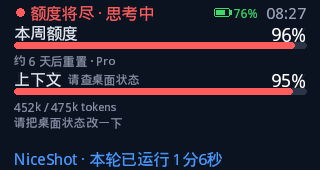
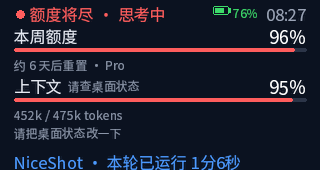
Keep the progress bars clear of the label glyphs.
The 20px UI face was running into the 6px tracks. Both bars are now 4px
and start 24px below the label so the window title and summary stay readable.

Changed region(s): [[0.0312, 0.0294, 0.9688, 0.8235], [0.0312, 0.8824, 0.75, 1.0]]

diff --git a/firmware/scripts/preview_ui.py b/firmware/scripts/preview_ui.py
@@ -13,10 +13,10 @@ import gen_font
 
 W, H = 320, 170
 PAD, RIGHT = 14, 306
-STATUS_Y, DOT = 4, (20, 12)
-LABEL1_Y, BAR1_Y, BAR_H, SUB1_Y = 24, 42, 6, 54
-LABEL2_Y, BAR2_Y, SUB2_Y = 70, 88, 100
-SUMMARY_Y = 116
+STATUS_Y, DOT = 2, (20, 14)
+LABEL1_Y, BAR1_Y, BAR_H, SUB1_Y = 24, 48, 4, 56
+LABEL2_Y, BAR2_Y, SUB2_Y = 74, 98, 106
+SUMMARY_Y = 124
 FOOT_Y = 150
 
 BG = (11, 18, 32)
@@ -157,10 +157,10 @@ def render(face_ui, face_sub, face_num, state):
     pct = "--" if state["weekly"] < 0 else f"{int(state['weekly'] + 0.5)}%"
     num_y = LABEL1_Y + (face_ui.line_height - face_num.line_height) // 2
     draw_text(image, face_num, RIGHT - face_num.width(pct), num_y, pct, WHITE, W)
-    rounded(draw, (PAD, BAR1_Y, RIGHT, BAR1_Y + BAR_H), BAR_H // 2, TRACK)
+    rounded(draw, (PAD, BAR1_Y, RIGHT, BAR1_Y + BAR_H - 1), BAR_H // 2, TRACK)
     if state["weekly"] > 0:
         fill = int((RIGHT - PAD) * min(state["weekly"], 100) / 100 + 0.5)
-        rounded(draw, (PAD, BAR1_Y, PAD + max(fill, 2), BAR1_Y + BAR_H), BAR_H // 2, bar_color(state["weekly"]))
+        rounded(draw, (PAD, BAR1_Y, PAD + max(fill, 2), BAR1_Y + BAR_H - 1), BAR_H // 2, bar_color(state["weekly"]))
     draw_text(image, face_sub, PAD, SUB1_Y, state["weekly_sub"], DIM, RIGHT)
     draw_text(image, face_ui, PAD, LABEL2_Y, "上下文", TEXT, W)
     pct = "--" if state["context"] < 0 else f"{int(state['context'] + 0.5)}%"
@@ -170,10 +170,10 @@ def render(face_ui, face_sub, face_num, state):
         name_x = PAD + face_ui.width("上下文") + 6
         draw_text(image, face_sub, name_x, LABEL2_Y + 3, window_name, DIM, pct_x - 6)
     draw_text(image, face_num, RIGHT - face_num.width(pct), LABEL2_Y + (face_ui.line_height - face_num.line_height) // 2, pct, WHITE, W)
-    rounded(draw, (PAD, BAR2_Y, RIGHT, BAR2_Y + BAR_H), BAR_H // 2, TRACK)
+    rounded(draw, (PAD, BAR2_Y, RIGHT, BAR2_Y + BAR_H - 1), BAR_H // 2, TRACK)
     if state["context"] > 0:
         fill = int((RIGHT - PAD) * min(state["context"], 100) / 100 + 0.5)
-        rounded(draw, (PAD, BAR2_Y, PAD + max(fill, 2), BAR2_Y + BAR_H), BAR_H // 2, bar_color(state["context"]))
+        rounded(draw, (PAD, BAR2_Y, PAD + max(fill, 2), BAR2_Y + BAR_H - 1), BAR_H // 2, bar_color(state["context"]))
     draw_text(image, face_sub, PAD, SUB2_Y, state["context_sub"], DIM, RIGHT)
     summary = state.get("summary") or ""
     if summary and state["link"] == "ok":

diff --git a/firmware/src/ui.cpp b/firmware/src/ui.cpp
@@ -19,17 +19,19 @@ constexpr int kWidth = 320;
 constexpr int kHeight = 170;
 constexpr int kPad = 14;
 constexpr int kRight = 306;
-constexpr int kStatusY = 4;
+// FONT_UI ink reaches 20px below the draw origin and FONT_SUB reaches 16px.
+// Bars start 24px under the label origin so they clear that ink and the window title.
+constexpr int kStatusY = 2;
 constexpr int kDotCx = 20;
-constexpr int kDotCy = 12;
+constexpr int kDotCy = 14;
 constexpr int kLabel1Y = 24;
-constexpr int kBar1Y = 42;
-constexpr int kBarH = 6;
-constexpr int kSub1Y = 54;
-constexpr int kLabel2Y = 70;
-constexpr int kBar2Y = 88;
-constexpr int kSub2Y = 100;
-constexpr int kSummaryY = 116;
+constexpr int kBar1Y = 48;
+constexpr int kBarH = 4;
+constexpr int kSub1Y = 56;
+constexpr int kLabel2Y = 74;
+constexpr int kBar2Y = 98;
+constexpr int kSub2Y = 106;
+constexpr int kSummaryY = 124;
 constexpr int kSummaryStep = 14;
 constexpr int kFootY = 150;
 
